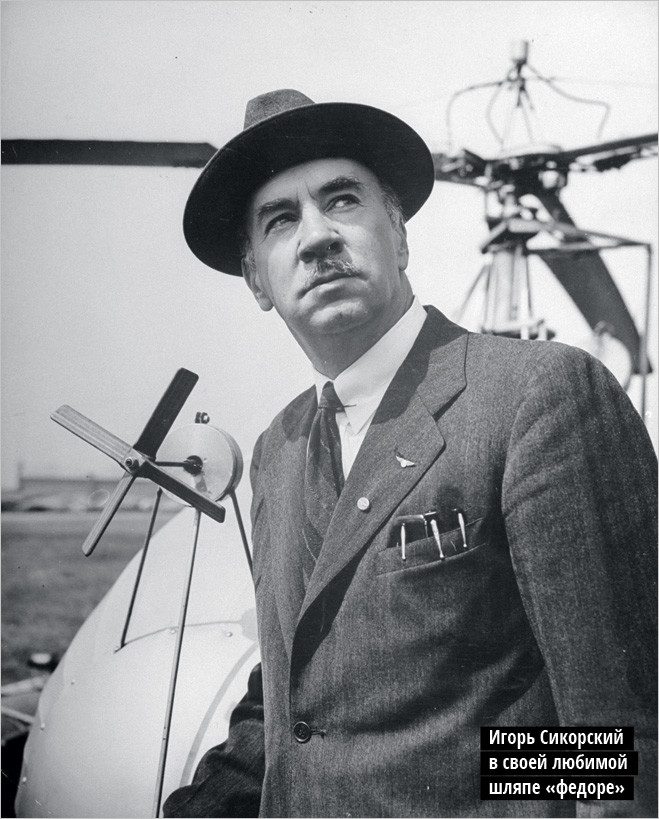
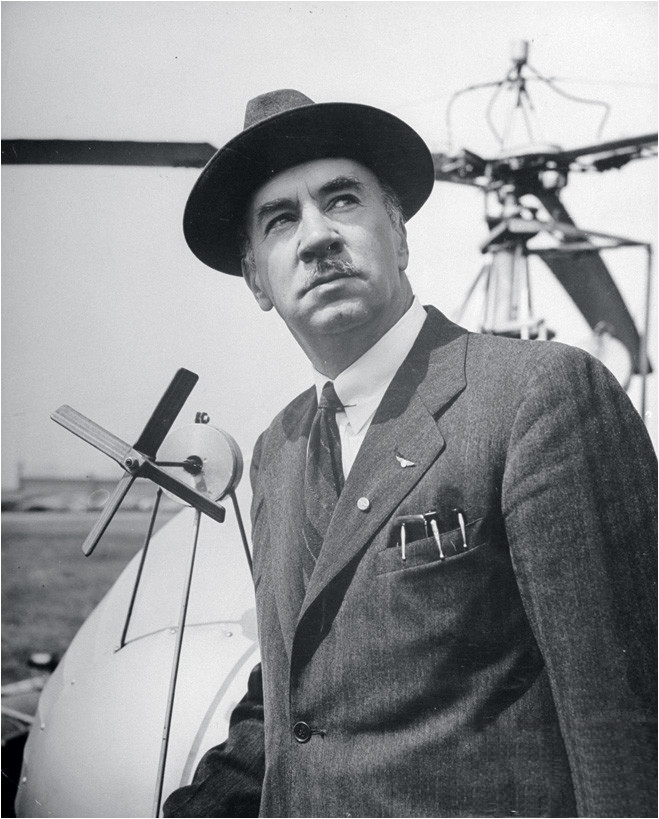
Add files via upload

Changed region(s): [[0.698, 0.8852, 1.0, 1.0]]

diff --git a/Tribute Page/css/style.css b/Tribute Page/css/style.css
@@ -1,121 +1,234 @@
 body {
     font-family: 'Inconsolata', monospace;
-    /* Permalink - use to edit and share this gradient: http://colorzilla.com/gradient-editor/#dfe5ac+5,eaefb5+23,eaedce+31,eaefb5+45,ebedde+57,ebedde+65,eaefb5+88,eaedce+95&0.69+14,0.48+79,0.91+79,0.91+94 */
-    background: -moz-linear-gradient(top, rgba(223, 229, 172, 0.69) 5%, rgba(229, 234, 177, 0.69) 14%, rgba(234, 239, 181, 0.72) 23%, rgba(234, 237, 206, 0.75) 31%, rgba(234, 239, 181, 0.8) 45%, rgba(235, 237, 222, 0.84) 57%, rgba(235, 237, 222, 0.87) 65%, rgba(234, 238, 197, 0.91) 79%, rgba(234, 239, 181, 0.91) 88%, rgba(234, 237, 202, 0.91) 94%, rgba(234, 237, 206, 0.91) 95%);
-    /* FF3.6-15 */
-    background: -webkit-linear-gradient(top, rgba(223, 229, 172, 0.69) 5%, rgba(229, 234, 177, 0.69) 14%, rgba(234, 239, 181, 0.72) 23%, rgba(234, 237, 206, 0.75) 31%, rgba(234, 239, 181, 0.8) 45%, rgba(235, 237, 222, 0.84) 57%, rgba(235, 237, 222, 0.87) 65%, rgba(234, 238, 197, 0.91) 79%, rgba(234, 239, 181, 0.91) 88%, rgba(234, 237, 202, 0.91) 94%, rgba(234, 237, 206, 0.91) 95%);
-    /* Chrome10-25,Safari5.1-6 */
-    background: linear-gradient(to bottom, rgba(223, 229, 172, 0.69) 5%, rgba(229, 234, 177, 0.69) 14%, rgba(234, 239, 181, 0.72) 23%, rgba(234, 237, 206, 0.75) 31%, rgba(234, 239, 181, 0.8) 45%, rgba(235, 237, 222, 0.84) 57%, rgba(235, 237, 222, 0.87) 65%, rgba(234, 238, 197, 0.91) 79%, rgba(234, 239, 181, 0.91) 88%, rgba(234, 237, 202, 0.91) 94%, rgba(234, 237, 206, 0.91) 95%);
-    /* W3C, IE10+, FF16+, Chrome26+, Opera12+, Safari7+ */
-    filter: progid:DXImageTransform.Microsoft.gradient( startColorstr='#b0dfe5ac', endColorstr='#e8eaedce', GradientType=0);
-    /* IE6-9 */
+    background: #fff; /* fallback for old browsers */
+
 }
-h1{
-    text-align: center;
-    padding-top: 30px; 
-    font-size: 2.5rem;
-    font-style: normal;
-    font-weight: 600;
-    color: rgba(248, 8, 8, 0.527);
-}
-h2{
+main{
+    max-width: 960px;
     margin: 0 auto;
-    max-width: 60%;
-    color: antiquewhite;
-    margin-bottom: 30px;
-    padding-bottom: 15px;
-    border-bottom: 2px solid  rgb(219, 40, 40);
 }
+
+h3{
+    font-size: 1.5em;
+    font-weight: 500;
+}
+p{
+    font-size: 1em;
+    font-weight: 500;
+}
+
+.top-container{
+    width: 100%;
+    display: flex;
+    flex-direction: row;
+    align-items: flex-start;
+}
+.title{
+    max-width: 70%;
+    display: inline-block;
+}
+.main-img{
+    margin: 20px;
+}
+.main-img img{
+    max-width: 100%;
+    margin: 0 auto;
+    
+    opacity: 0.9;
+    transition: opacity 1s;
+}
+.main-img img:hover{
+    opacity: 1;
+}
+.text-box{
+    position: relative;
+    bottom: 179px;
+    margin-bottom: -150px;
+    right: 0px;
+    display: block;
+    color: #f5f6fa;
+    background: linear-gradient(to bottom, rgba(0, 0, 0, 0.0) 0%, rgba(0, 0, 0, 0.4) 25%, rgba(0, 0, 0, 0.9));
+}
+.text-box h1{
+    position: relative;
+    text-align: center;
+    padding-top: 40px; 
+    padding-bottom: 10px;
+    font-size: 50px;
+    font-style: normal;
+    font-weight: 550;
+}
+.text-box h2{
+    font-size: 15px;
+    position: relative;
+    margin: 0 auto;
+    max-width: 80%;
+}
+
 .caption{
     text-align: center;
     margin-top: 10px;
-    font-size: 0.9rem;
+    font-size: 15px;
     font-style: italic;
     font-weight: 100;
-}
-main{
-    width: 92%;
-    margin: 0 auto;
-    /* background: radial-gradient(rgb(126, 125, 125) 1%, rgb(236, 236, 236) 10%); */
-    background: linear-gradient(180deg, rgb(126, 125, 125) 1%, rgb(236, 236, 236) 10%, rgb(199, 198, 198), rgb(255, 255, 255));
-
-}
-.title{
-    background: radial-gradient(rgb(126, 125, 125), rgb(236, 236, 236));
     padding-bottom: 10px;
 }
-.main-img{
-    width: 100%;
-    margin: 0 auto;
-    margin-bottom: 20px;
+.time-line{
+    background-color: #F1F1F1;
+    margin: 20px;
+    max-width: 30%;
+    margin-top: 60px;
 }
-.main-img img{
-    width: 100%;
-    margin: 0 auto;
-    
-}
-.article-container{
-    width: 95%;
-    margin: 0 auto;
-    display: flex;
-    flex-direction: row;
-    justify-content: space-between;
-    margin-bottom: 20px;
-}
-.info{
-    width: 60%;
-    font-size: 1rem;
-}
-.info p{
-    text-indent: 2.5rem;
-    line-height: 1.1rem;
-    padding: 5px 0;
-}
-h3{
-    font-size: 1.4rem;
-    font-weight: 500;
-    color: black;
+.time-line h3{
+    background-color: #303952;
+    color: #f5f6fa;
+    padding: 10px;
 }
 ul{
     list-style-image:url(../img/pixel1/02.gif);
     list-style-position: outside;
     margin: 10px 30px; 
-    line-height: 1.2rem;
+    line-height: 1.3em;
 }
 li{
     padding-bottom: 1rem;
     padding-left: 10px;
 }
+
+.article-container{
+    width: 90%;
+    margin: 0 auto;
+    display: flex;
+    flex-direction: row;
+    justify-content: space-around;
+    margin-top: 40px;
+    margin-bottom: 60px;
+}
+.info{
+    background-color: #F1F1F1;
+    width: 50%;
+    font-size: 1rem;
+}
+.info h3{
+    background-color: #303952;
+    color: #f5f6fa;
+    padding: 10px;
+}
+.info p{
+    text-indent: 2.5rem;
+    line-height: 1.4em;
+    padding: 10px 20px;
+}
+
+
 .info-img{
     display:flex;
     flex-direction: column;
     justify-content: space-around;
     align-items: center;
-    width: 35%;
+    width: 60%;
 }
 .info-img img{
     max-width: 100%;
     margin: auto;
 }
-
-.article-end{
-    text-align: center;
-    width: 92%;
-    margin: 0 auto;
-    padding-bottom: 40px;
+.bottom-container{
+    margin-bottom: -100px;
 }
+.bottom-img{
+    width: 100%;
+    height: 700px;
+    background-image: linear-gradient(rgba(255, 255, 255, 0.0) 70%, rgba(48, 57, 82, 0.9) 85%, 
+    rgba(48, 57, 82, 1) 95%), url("../img/MainImg.jpeg");
+    
+}
+.article-end{
+    position: relative;
+    bottom: 700px;
+    text-align: center;
+    width: 90%;
+    margin: 0 auto;
+    padding: 20px 48px;
+    background: linear-gradient(to top, rgba(255, 255, 255, 0.0) 0%, 
+    rgba(255, 255, 255, 0.4) 25%, rgba(255, 255, 255, 0.9));
+    
+}
+
 .name{
     /* font-style: normal; */
     font-weight: 600;
 }
-footer p{
-    width: 90%;
-    padding: 10px;
-    margin: auto;
-    border: 2px solid rgb(158, 158, 158);
-    font-size: 1.2rem;
-    text-align: right;
+
+
+footer{
+    max-width: 960px;
+    margin: 0 auto;
+    display: block;
+    position: relative;
+    bottom: 50px;
+    margin-bottom: -50px;
+    
 }
+footer p{
+    margin: 0 auto;
+    display: inline-blocks;
+    padding: 10px 40px;
+    font-size: 1.5rem;
+    text-align: right;
+    color: #f5f6fa;
+}
+footer a{
+    color: #B28000 ;
+}
+
+@media (max-width:952px){
+    .text-box{
+        bottom: 225px;
+        margin-bottom: -225px;
+    }
+}
+@media (max-width:780px){
+    .top-container{
+        flex-direction: column;
+    }
+    .title{
+        margin: 0 auto;
+        max-width: 100%;
+    }
+    .text-box{
+        bottom: 180px;
+        margin-bottom: -180px;
+    }
+    .time-line{
+        margin: 0 auto;
+        margin-top: 60px;
+        max-width: 90%;
+    }
+    footer{
+        bottom: 100px;
+        margin-bottom: -100px;
+    }
+}
+
+@media (max-width:631px){
+    .text-box{
+        bottom: 225px;
+        margin-bottom: -225px;
+    }
+
+}
+@media (max-width:441px){
+    .text-box{
+        bottom: 242px;
+        margin-bottom: -242px;
+    }
+    footer{
+        bottom: 150px;
+        margin-bottom: -150px;
+    }
+
+}
+
 
 @media (max-width:900px){
     .article-container{

diff --git a/Tribute Page/index.html b/Tribute Page/index.html
@@ -13,16 +13,20 @@
 
 <body id="main">
     <main>
-        <div class="title">
-            <h1 id="title">Igor Ivanovich Sikorsky</h1>
-            <h2 class="caption">"Man with a propeller. One of the largest aircraft designers of the XX century."</h2>
-        </div>
-        <div class="main-img" id="img-div">
-            <img src="img/MainImg.jpeg" alt="Igor Ivanovich Sikorsky" id="image">
-            <p id="img-caption" class="caption">Sikorsky and helicopter prototype.</p>
-        </div>
-        <div class="article-container">
-            <div class="info" id="tribute-info">
+        <div class="top-container">
+            <div class="title">
+                <div class="main-img" id="img-div">
+                    <img src="img/MainImg1.jpeg" alt="Igor Ivanovich Sikorsky" id="image">
+                    <p id="img-caption" class="caption">Sikorsky and helicopter prototype.</p>
+                    <div class="text-box">
+                        <h1 id="title">Igor Ivanovich Sikorsky</h1>
+                        <h2 class="caption">"Man with a propeller. One of the largest aircraft designers of the XX
+                            century."</h2>
+                    </div>
+                </div>
+
+            </div>
+            <div class="time-line">
                 <h3>Here's a time line of Igor Sikorsky life:</h3>
                 <ul>
                     <li>MAY 25, 1889 Igor Sikorsky was born in Kiev, Ukraine (at that time was part of the Russian
@@ -34,6 +38,12 @@
                     <li>1939 Sikorsky designed and flew the Vought-Sikorsky VS-300</li>
                     <li>OCT 26, 1972 He died of old age at the age of 83</li>
                 </ul>
+            </div>
+        </div>
+
+        <div class="article-container">
+            <div class="info" id="tribute-info">
+                <h3>Short life story</h3>
                 <p>Igor Sikorsky did not support the revolution. For a short time he collaborated with the French
                     invaders, and in February 1918 he left Russia forever. In 1923, he founded Sikorsky Aero
                     Engineering (now Sikorsky Aircraft) in the United States. First, this company was engaged in the
@@ -54,12 +64,21 @@
                 <div class="side-img"><img src="img/img3.jpg" alt=""></div>
             </div>
         </div>
-        <div class="article-end caption">
-            <p>"The idea of a vehicle that could lift itself vertically from the ground and hover motionless in the air
-                was probably born at the same time that man first dreamed of flying". "It would be right to say that
-                the helicopter's role in saving lives represents one of the most glorious pages in the history of human
-                flight." <span class="name">Igor Ivanovitch Sikorsky</span></p>
+        <!-- <div class="bottom-img"><img src="img/MainImg.jpeg" alt="Sicorski on prototype"></div> -->
+        <div class="bottom-container">
+            <div class="bottom-img"></div>
+            <div class="article-end caption">
+                <p>"The idea of a vehicle that could lift itself vertically from the ground and hover motionless in the
+                    air
+                    was probably born at the same time that man first dreamed of flying". "It would be right to say
+                    that
+                    the helicopter's role in saving lives represents one of the most glorious pages in the history of
+                    human
+                    flight." <span class="name">Igor Ivanovitch Sikorsky</span></p>
+            </div>
         </div>
+
+
     </main>
     <footer>
         <p>More information on Wikipedia
